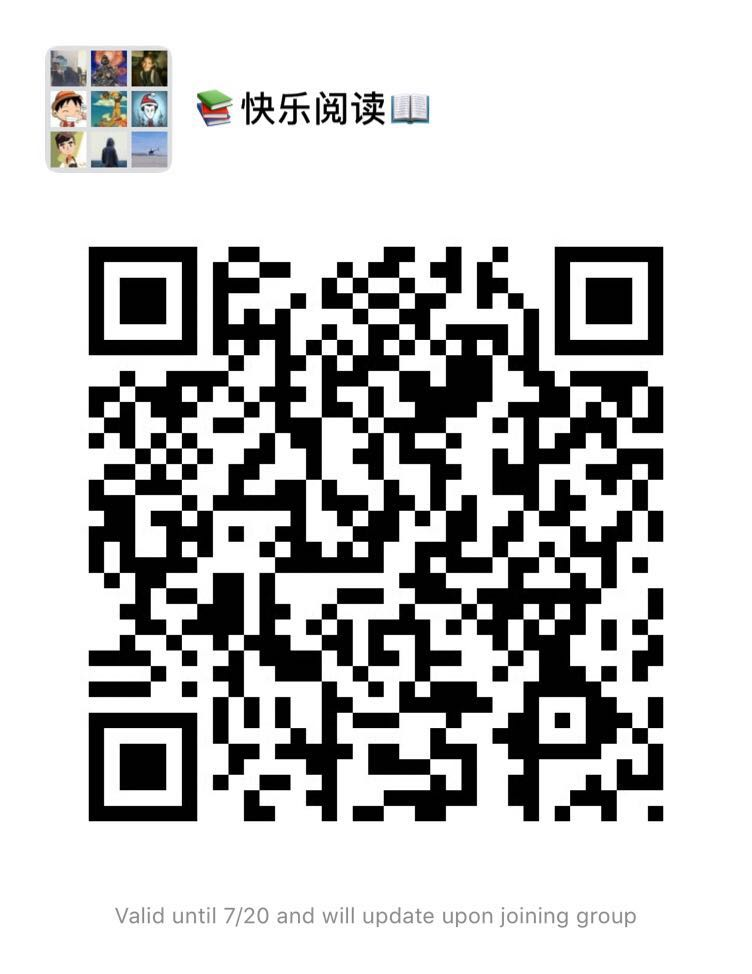
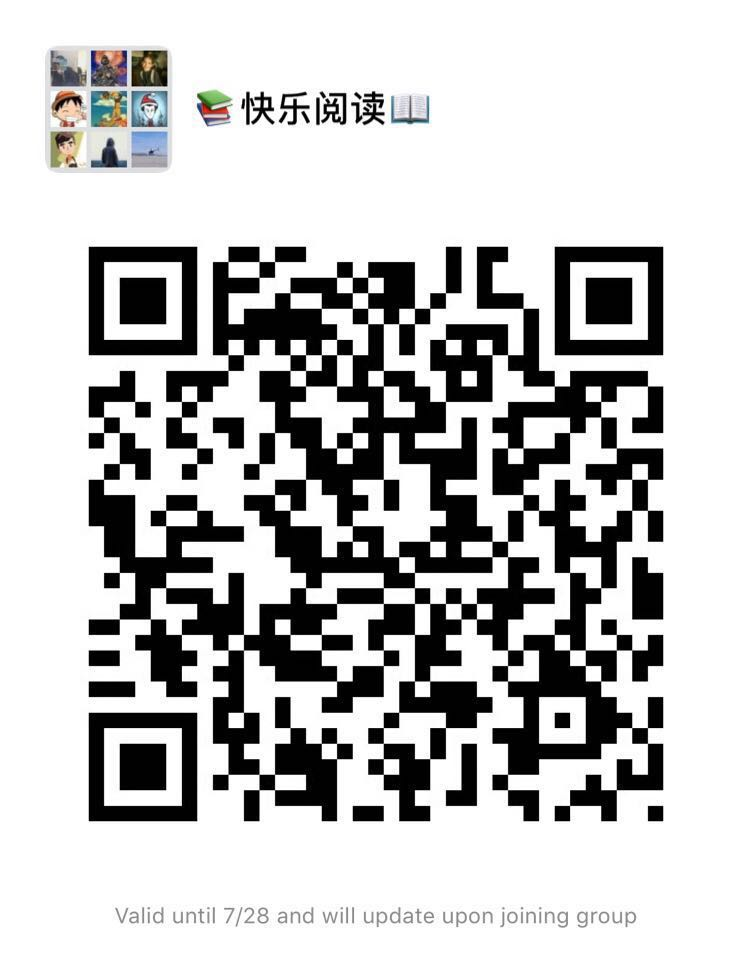
0002

diff --git a/docs/0002.md b/docs/0002.md
@@ -1,0 +1,20 @@
+
+## 书籍
+
+### How to Become a Straight-A Student
+![](https://images-na.ssl-images-amazon.com/images/I/51mKmt0ltIL._SX322_BO1,204,203,200_.jpg)
+
+key words: How to Become a Straight-A Student:  pdf 
+
+直接下载 | Amazon | 百度网盘 | 
+---------|----------|---------|
+[Download](https://gitee.com/henrythy/HenryBooks/raw/master/books/How%20to%20Become%20a%20Straight-A%20Student/How-to-Become-a-Straight-A-Student_4.pdf) | [Amazon](https://www.amazon.com/How-Become-Straight-Student-Unconventional/dp/0767922719) | [链接](https://pan.baidu.com/s/1hIfZiYGsmcsJohLF48VEHw) 提取码：47by|
+
+### 微信群
+欢迎加入**快乐阅读**微信群
+
+![微信群](https://github.com/henrytien/HappyReading/raw/master/images/WeChatGroup.jpg)
+
+
+### 分享
+欢迎大家在群里分享或者这里提交，自己阅读到的喜欢的文段或是自己的读书笔记截图等。

diff --git a/README.md b/README.md
@@ -13,8 +13,7 @@
 
 ## 2019
 
-**七月**：[第 1 期：乔布斯传](docs/0001.md) 
-
+**七月**：[第 1 期：乔布斯传](docs/0001.md) | [第 2 期：How to Become a Straight-A Student](docs/0002.md) 
 
 
 ### 微信群
